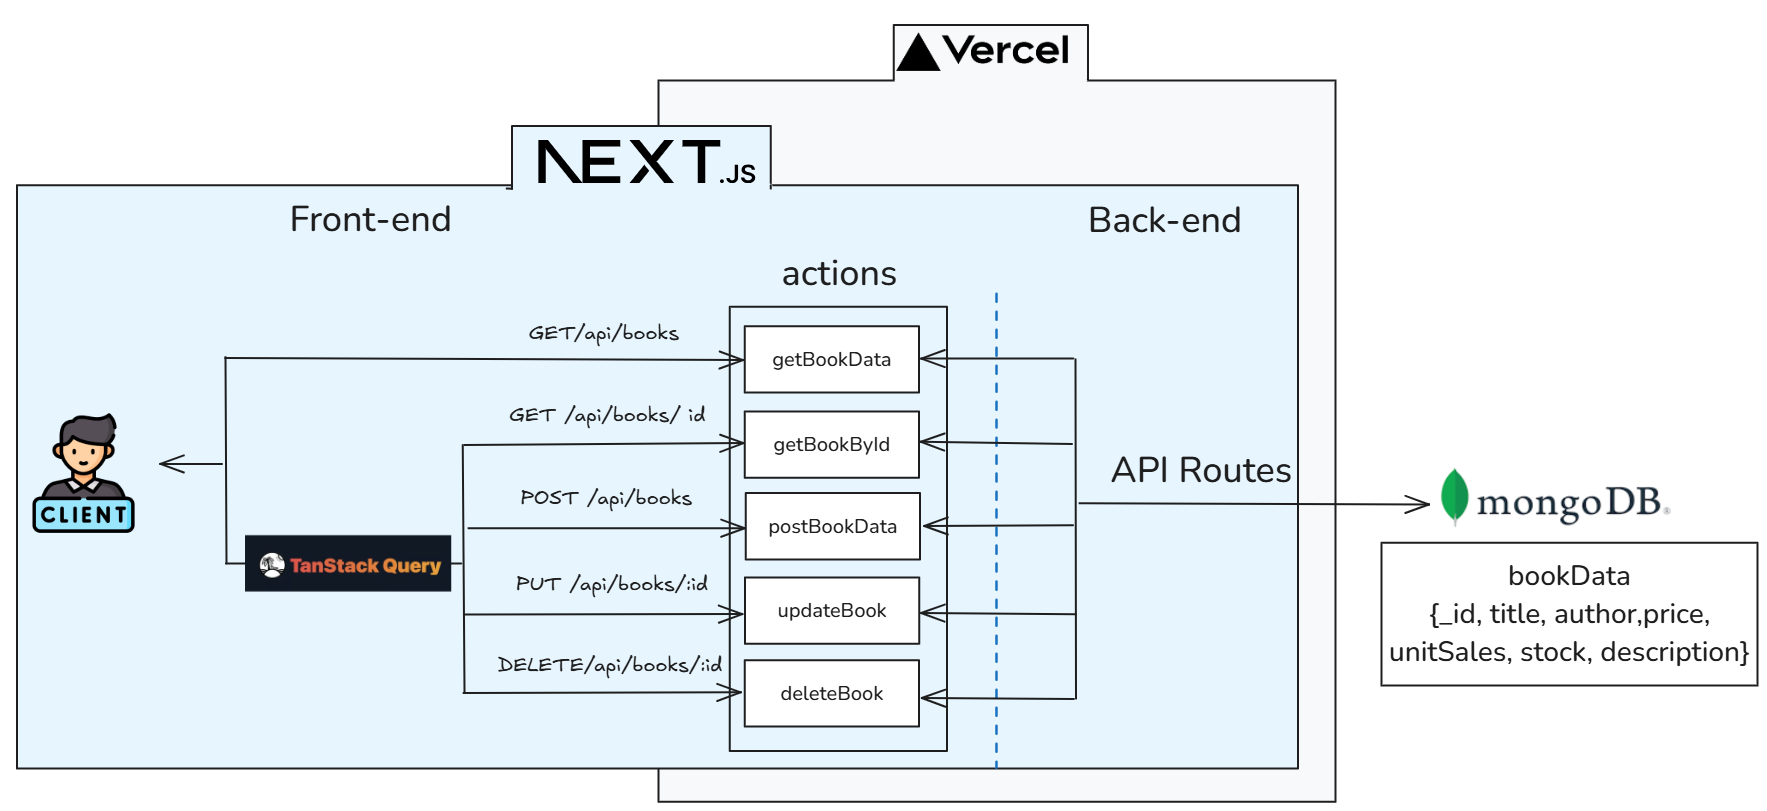
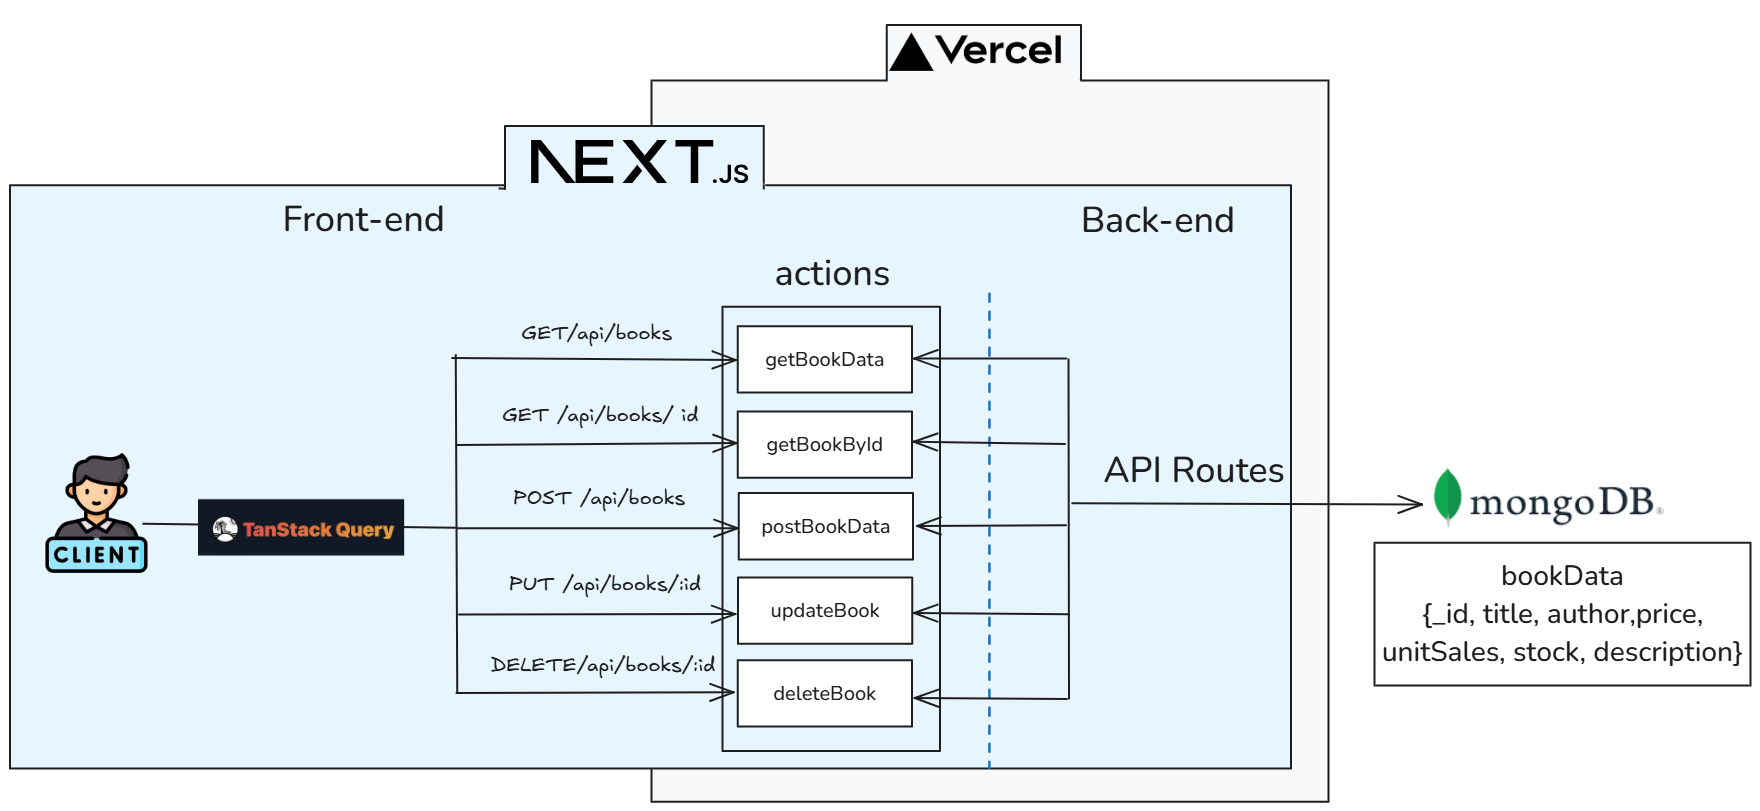
FEAT:Edit fetchbooks.ts & page.tsx

diff --git a/src/actions/fetchBooks.ts b/src/actions/fetchBooks.ts
@@ -1,14 +1,13 @@
 /* eslint-disable @typescript-eslint/no-unused-vars */
 import { bookData, newBookData } from 'schemas/books';
 
-const BASE_URL = process.env.NEXT_PUBLIC_API_URL || '';
-
 export const getBookData = async (searchQuery?: string) => {
-  let url = `${BASE_URL}/api/books`;
+  let url = `/api/books`;
   if (searchQuery) {
     url += `?q=${encodeURIComponent(searchQuery)}`;
   }
   const res = await fetch(url, {
+    method: 'GET',
     cache: 'no-store',
   });
 
@@ -21,7 +20,7 @@ export const getBookData = async (searchQuery?: string) => {
 };
 
 export const postBookData = async (bookData: newBookData) => {
-  const res = await fetch(`${BASE_URL}/api/books`, {
+  const res = await fetch(`/api/books`, {
     method: 'POST',
     headers: {
       'Content-Type': 'application/json',
@@ -38,7 +37,8 @@ export const postBookData = async (bookData: newBookData) => {
 };
 
 export const getBookById = async (id: string) => {
-  const res = await fetch(`${BASE_URL}/api/books/${id}`, {
+  const res = await fetch(`/api/books/${id}`, {
+    method: 'GET',
     cache: 'no-store',
   });
 
@@ -54,7 +54,7 @@ export const updateBook = async (
   id: string,
   { _id, ...updateData }: bookData
 ): Promise<bookData> => {
-  const res = await fetch(`${BASE_URL}/api/books/${id}`, {
+  const res = await fetch(`/api/books/${id}`, {
     method: 'PUT',
     headers: {
       'Content-Type': 'application/json',
@@ -72,7 +72,7 @@ export const updateBook = async (
 };
 
 export const deleteBook = async (id: string) => {
-  const res = await fetch(`${BASE_URL}/api/books/${id}`, {
+  const res = await fetch(`/api/books/${id}`, {
     method: 'DELETE',
   });
 

diff --git a/src/app/(home)/page.tsx b/src/app/(home)/page.tsx
@@ -1,9 +1,18 @@
+'use client';
+
+import { useQuery } from '@tanstack/react-query';
 import BookList from '@/components/bookList';
 import Searchbar from '@/components/searchBar';
 import { getBookData } from 'actions/fetchBooks';
 
-export default async function Home() {
-  const books = await getBookData();
+export default function Home() {
+  const { data, error, isLoading } = useQuery({
+    queryKey: ['books'],
+    queryFn: () => getBookData(),
+  });
+
+  if (isLoading) return <div>Loading...</div>;
+  if (error) return <div>Error: {error.message}</div>;
 
   return (
     <div>
@@ -11,7 +20,7 @@ export default async function Home() {
         <Searchbar />
       </section>
       <section>
-        <BookList books={books} />
+        <BookList books={data} />
       </section>
     </div>
   );
